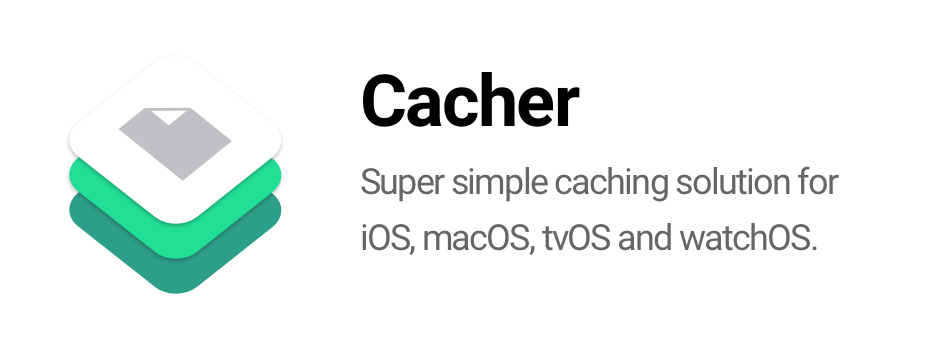
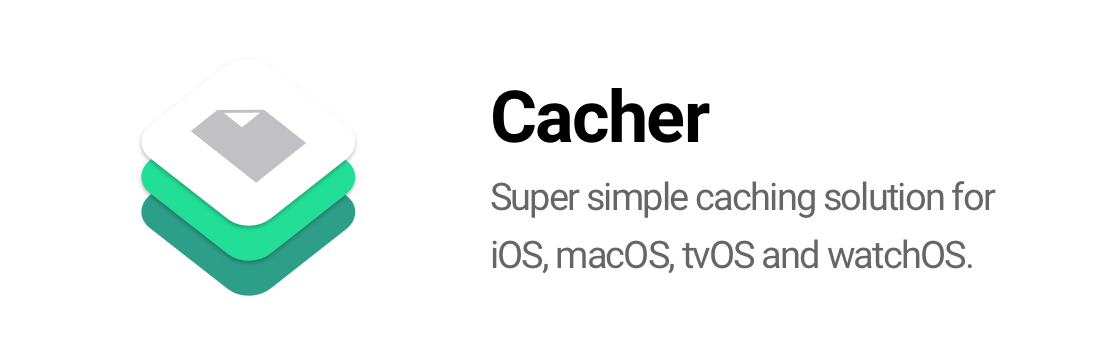
Full width image

Changed region(s): [[0.3702, 0.4857, 0.8947, 0.7714], [0.0617, 0.2857, 0.3394, 0.8571], [0.3702, 0.2, 0.6479, 0.4286]]

diff --git a/README.md b/README.md
@@ -1,4 +1,4 @@
-<img src="/Resources/Icon.png" width="470" />
+<img src="/Resources/Icon.png" />
 
 For a detail information about using "Cacher", checkout the article ["Caching anything in iOS"](https://medium.com/ios-os-x-development/caching-anything-in-ios-102176e46eba).
 
